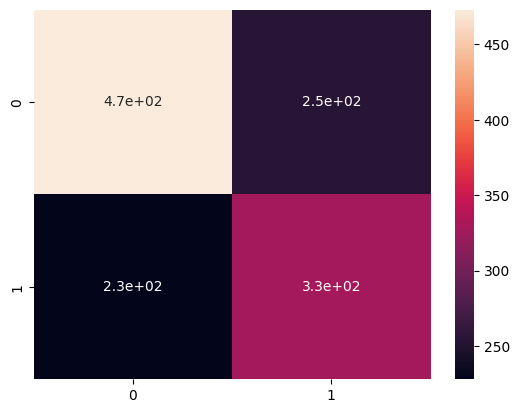
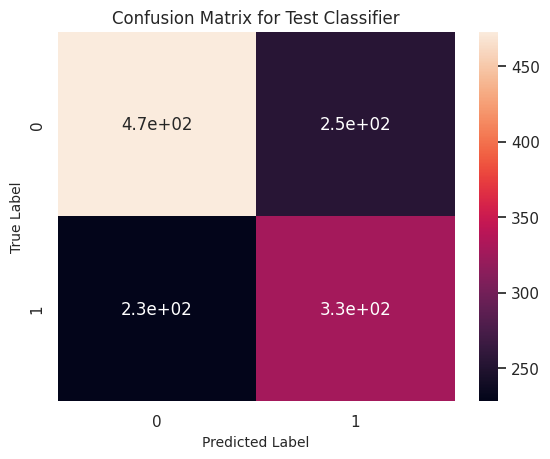
update images and utils

diff --git a/utils.py b/utils.py
@@ -1,7 +1,9 @@
 import evaluate
 import numpy as np
+import pandas as pd
 import seaborn as sns
 import matplotlib.pyplot as plt
+from torch import tensor, from_numpy
 from torch.nn.functional import softmax
 from datasets import load_dataset, Dataset
 from imblearn.under_sampling import RandomUnderSampler
@@ -9,6 +11,12 @@ from sklearn.metrics import confusion_matrix, roc_curve
 
 palette = sns.color_palette('hls')
 truth_palette = sns.color_palette('hls', 15)[:6]
+
+multiclass = {
+    'binary_label': 2,
+    'trinary_label': 3,
+    'default': 6, 
+}
 
 mappings = {
     'two-class': {
@@ -53,60 +61,66 @@ def map_labels(sample):
     return sample
 
 # Concatenate columns with [SEP] to add more information for classification
-def concanenate_columns(dataset, max_len=100, splits=['train', 'test', 'validation'], cols=['statement', 'subject', 'speaker', 'context']):
+def concanenate_columns(dataset, max_len=100, cols=['statement', 'subject', 'speaker', 'context']):
     def truncate(sample, col, max_len):
         return {
             col: sample[col][:max_len] if len(sample[col]) > max_len else sample[col]
         }
-
-    for split in splits:
-        dataset[split] = dataset[split].map(lambda x: truncate(x, 'statement', max_len))
-        columns = [dataset[split][col] for col in cols]
-        concatenated_texts = [' [SEP] '.join(items) for items in zip(*columns)]
-        dataset[split] = dataset[split].add_column('text', concatenated_texts)
+    
+    dataset = dataset.map(lambda x: truncate(x, 'statement', max_len))
+    columns = [dataset[col] for col in cols]
+    concatenated_texts = [' [SEP] '.join(items) for items in zip(*columns)]
+    dataset = dataset.add_column('text', concatenated_texts)
     
     return dataset
 
-# loads the dataset and applies the above functions and mappings
-def load_data(path, split=None, remove_all=True, concat=False, max_len=75, label_type='label', cols=['statement', 'subject', 'speaker', 'context']):
-    if split is not None:
+def load_split(path=None, data=None, remove_all=True, max_len=100, split='train', label_type='label', cols=['statement', 'subject', 'speaker', 'context']):
+    if data is not None:
+        dataset = Dataset.from_pandas(data)
+    else:
         dataset = load_dataset(path, split=split)
-        dataset = dataset.map(map_labels)
-        return dataset
-    
-    dataset = load_dataset(path)
-
-    dataset['train'] = dataset['train'].map(map_labels)
-    dataset['test'] = dataset['test'].map(map_labels)
-    dataset['validation'] = dataset['validation'].map(map_labels)
-
-    if concat:
-        dataset = concanenate_columns(dataset, max_len=max_len, cols=cols)
-
+        
+    dataset = dataset.map(map_labels)
+    dataset = concanenate_columns(dataset, max_len=max_len, cols=cols)
     if remove_all:
-        cols_to_remove = dataset['train'].column_names
+        cols_to_remove = dataset.column_names
         cols_to_remove.remove(label_type)
-        # cols_to_remove.remove('speaker')
-        # cols_to_remove.remove('subject')
-        # cols_to_remove.remove('context')
-        # cols_to_remove.remove('statement')
-        if concat:
-            cols_to_remove.remove('text')
+        cols_to_remove.remove('text')
         dataset = dataset.remove_columns(cols_to_remove)
     
     if label_type != 'label':
         dataset = dataset.rename_column(label_type, 'label')
+    
+    return dataset
+        
+        
 
+# loads the dataset and applies the above functions and mappings
+def load_data(path=None, data=None, split=None, remove_all=True, max_len=100, label_type='label', cols=['statement', 'subject', 'speaker', 'context']):
+    if split is not None:
+        dataset = load_split(path=path, split=split, cols=cols, label_type=label_type)
+    elif data is not None:
+        dataset = load_split(data=data, cols=cols, label_type=label_type)
+    else:
+        dataset = {}
+        for split in ['train', 'test', 'validation']:
+            dataset[split] = load_split(path=path, split=split, cols=cols, label_type=label_type)
+    
     return dataset
 
 # balances dataset by minority class
-def balance_dataset(dataset, split='train'):
-    # Separate features and labels
-    if 'text' not in dataset[split].column_names:
-        X = np.array(dataset[split]['statement'])
+def balance_dataset(dataset, split=None):
+    if split is not None:
+        data = dataset[split]
     else:
-        X = np.array(dataset[split]['text'])
-    y = np.array(dataset[split]['label'])
+        data = dataset
+        
+    # Separate features and labels
+    if 'text' not in data.column_names:
+        X = np.array(data['statement'])
+    else:
+        X = np.array(data['text'])
+    y = np.array(data['label'])
 
     # Reshape the features
     X_reshaped = X.reshape(-1, 1)
@@ -133,13 +147,10 @@ def display_samples(dataset, num_samples=5):
 def compute_metrics(eval_pred):
     metric = evaluate.load("accuracy")
     logits, labels = eval_pred
-    print(labels)
     predictions = np.argmax(logits, axis=1)
     return metric.compute(predictions=predictions, references=labels)
 
-def evaluate_performance(trainer, inputs):
-    from torch import from_numpy
-    
+def evaluate_performance(trainer, inputs, label='Train Classifier'):
     # basic evaluation of model
     trainer.evaluate(inputs)
 
@@ -158,11 +169,14 @@ def evaluate_performance(trainer, inputs):
 
     cm = confusion_matrix(y_true_labels, y_pred_labels)
     sns.heatmap(cm, annot=True)
+    plt.title(f'Confusion Matrix for {label}')
+    plt.xlabel('Predicted Label', fontsize=10)
+    plt.ylabel('True Label', fontsize=10)
     plt.show()
 
-def get_roc_curve(model, inputs):
+def get_roc_curve(trainer, inputs):
     y_pred = trainer.predict(inputs)
-    y_proba = softmax(torch.tensor(y_pred.predictions))
+    y_proba = softmax(tensor(y_pred.predictions), dim=1)
 
     y_true_labels = y_pred.label_ids
 
@@ -171,11 +185,11 @@ def get_roc_curve(model, inputs):
     return fpr, tpr, threshold
 
 
-def plot_roc_curves(model, inputs, label='Train Classifier'):
+def plot_roc_curves(trainer, inputs, label='Train Classifier'):
     def plot_roc_curve(fpr, tpr, label=None, color='b'):
         plt.plot(fpr, tpr, label=label, color=color)
 
-    fpr, tpr, threshold = get_roc_curve(model, inputs)
+    fpr, tpr, threshold = get_roc_curve(trainer, inputs)
 
     plt.figure(figsize=(7, 5))
     plt.title(f'ROC Curve for {label}')
@@ -207,12 +221,3 @@ def compute_metrics(eval_pred):
     logits, labels = eval_pred
     predictions = np.argmax(logits, axis=1)
     return metric.compute(predictions=predictions, references=labels)
-
-
-# def balance_dataset(dataset, split='train'):    
-#     df = pd.DataFrame(dataset[split])
-#     grouped_df = df.groupby('label')
-#     min_class = grouped_df.size().min()
-#     balanced_df = grouped_df.apply(lambda x: x.sample(n=min_class, replace=False)).reset_index(drop=True)
-    
-#     return Dataset.from_pandas(balanced_df)
